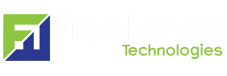
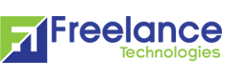
change navbar color

Changed region(s): [[0.0, 0.1842, 0.9868, 0.8421]]

diff --git a/css/style.css b/css/style.css
@@ -5,12 +5,6 @@
   font-weight: normal;
   font-style: normal;
 }
-/* =======================================================
-*
-* 	Template Style 
-*	Edit this section
-*
-* ======================================================= */
 body {
   font-family: "PT Sans", Arial, serif;
   font-weight: 300;
@@ -78,7 +72,6 @@ h1, h2, h3, h4, h5, h6 {
 @media screen and (max-width: 992px) {
   #fh5co-header #navbar .navbar-right {
     margin-right: -15px;
-
   }
 }
 #fh5co-header #navbar li a {
@@ -95,7 +88,6 @@ h1, h2, h3, h4, h5, h6 {
   }
 }
 #fh5co-header #navbar li a span {
-  color: #fff;
   position: relative;
   display: block;
   padding-bottom: 2px;
@@ -1212,14 +1204,7 @@ h1, h2, h3, h4, h5, h6 {
   border: 2px solid #ff3b30;
 }
 
-/*# sourceMappingURL=style.css.map */
-
 /*LMA Overrides*/ 
-
-#fh5co-header #navbar li a span 
-{
-  color: #fff;
-}
 
 #fh5co-header
 {
@@ -1241,7 +1226,6 @@ h1, h2, h3, h4, h5, h6 {
 }
 
 #fh5co-header.navbar-fixed-top {
-  background: #3f6bc6;
   box-shadow: 0px 5px 5px 0px rgba(0,0,0,0.3);
   -moz-box-shadow: 0px 5px 5px 0px rgba(0,0,0,0.3);
   -webkit-box-shadow: 0px 5px 5px 0px rgba(0,0,0,0.3);

diff --git a/index.html b/index.html
@@ -54,7 +54,7 @@
 	<body>
 	<header role="banner" id="fh5co-header">
 		<div class="fluid-container">
-			<nav class="navbar navbar-default" style="background-color:rgba(10,83,205,0.2);">
+			<nav class="navbar navbar-default">
 				<div class="navbar-header">
 					<a href="#" class="js-fh5co-nav-toggle fh5co-nav-toggle" data-toggle="collapse" data-target="#navbar" aria-expanded="false" aria-controls="navbar"><i></i></a>
 					<img src="images/freelance.png"/>
